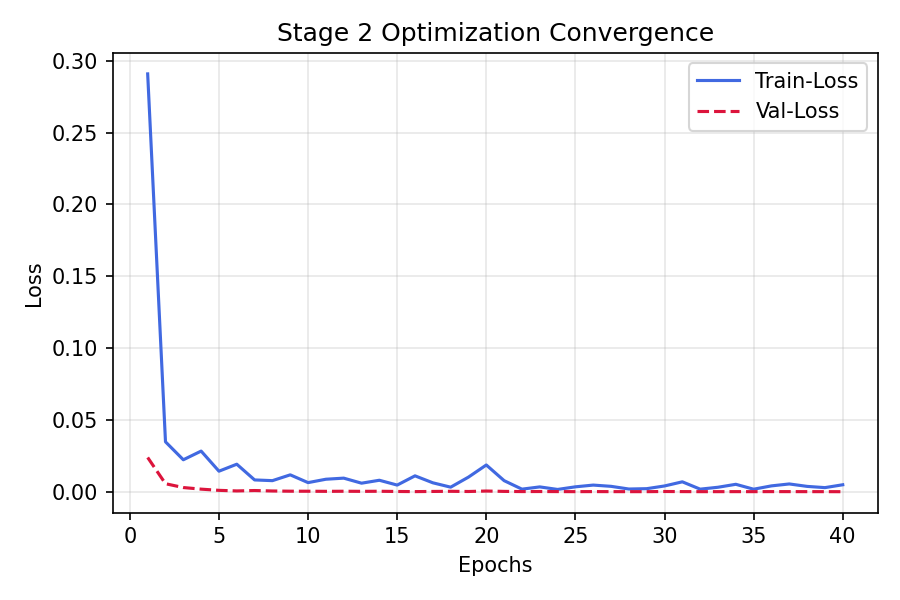
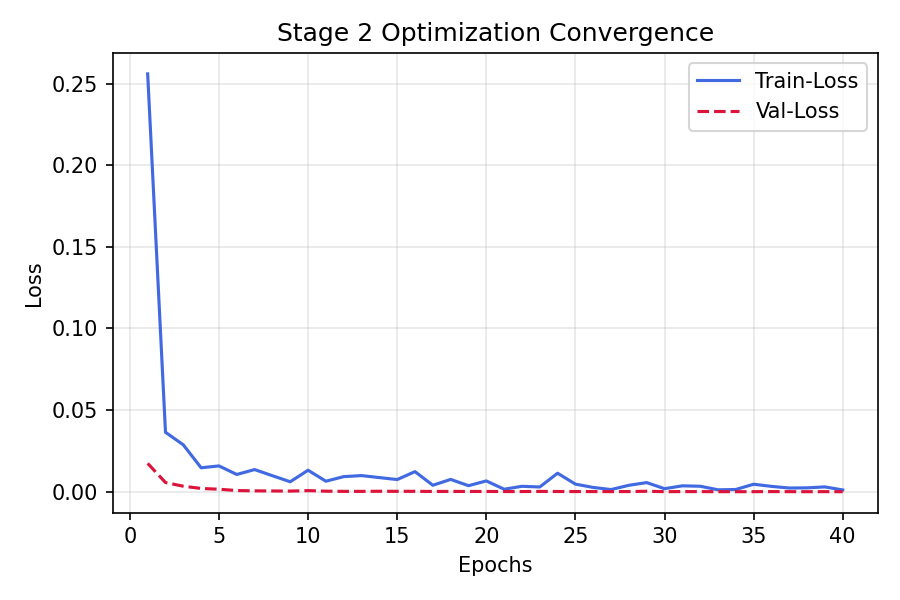
model 1 and 2 revised and trained

diff --git a/train_stage1.py b/train_stage1.py
@@ -9,6 +9,7 @@ from sklearn.model_selection import train_test_split
 from sklearn.metrics import classification_report, confusion_matrix
 from data.data_loader import Stage1_Dataset
 from model.stage1_screening import Stage1_Encoder, evaluate
+import matplotlib.pyplot as plt
 
 def main():
 
@@ -19,6 +20,7 @@ def main():
     train_df, test_df = train_test_split(df, test_size=0.15, random_state=42, stratify=df['diagnostic_class'])
 
     train_dataset = Stage1_Dataset(train_df)
+    train_dataset.save_scaler_meta()
     test_dataset = Stage1_Dataset(test_df, scaler_meta=train_dataset.get_scaler_meta())
 
     train_loader = DataLoader(train_dataset, batch_size=32, shuffle=True)
@@ -28,6 +30,7 @@ def main():
     criterion = nn.CrossEntropyLoss()
     optimizer = optim.Adam(model.parameters(), lr=0.002, weight_decay=1e-4)
 
+    metrics_history = {"train_loss" : [], "val_loss" : []}
     best_val_loss = float("inf")
     epochs = 40
 
@@ -53,9 +56,12 @@ def main():
 
         val_acc = np.mean(val_preds == val_labels)
 
+        metrics_history["train_loss"].append(epoch_train_loss)
+        metrics_history["val_loss"].append(epoch_val_loss)
+
         if epoch_val_loss < best_val_loss:
             best_val_loss = epoch_val_loss
-            torch.save(model.state_dict(), "best_stage1_encoder.pt")
+            torch.save(model.state_dict(), "model/stage1_model.pth")
             save_msg = "--> Checkpoint Saved"
         else:
             save_msg = ""
@@ -64,8 +70,23 @@ def main():
             print(f"Epoch [{epoch+1:02d}/{epochs}] | Train Loss: {epoch_train_loss:.4f} | {epoch_val_loss:.4f} | {val_acc*100:.1f}% {save_msg}")
         
     print("\nTraining complete. Running final evaluation metrics using optimal checkpoint...")
-    model.load_state_dict(torch.load("best_stage1_encoder.pt"))
+    model.load_state_dict(torch.load("model/stage1_model.pth"))
     _, final_labels, final_preds = evaluate(model, test_loader, criterion, device)
+
+
+    # Plotting execution metrics
+    plt.figure(figsize=(6,4))
+    plt.plot(range(1, epochs+1), metrics_history["train_loss"], label="Train-Loss", color="royalblue")
+    plt.plot(range(1, epochs+1), metrics_history["val_loss"], label="Val-Loss", color="crimson", linestyle="--")
+    plt.title('Stage 1 Optimization Convergence')
+    plt.xlabel('Epochs')
+    plt.ylabel('Loss')
+    plt.legend()
+    plt.grid(True, alpha=0.3)
+    plt.tight_layout()
+    plt.savefig("model/stage1_training_plots.png", dpi=150)
+    print("[+] Saved execution dynamics graphics to models/stage1_training_plots.png")
+
 
     print("\n" + "="*50)
     print("STAGE 1 CLINICAL EVALUATION METRICS REPORT")

diff --git a/data/data_loader.py b/data/data_loader.py
@@ -28,6 +28,23 @@ class Stage1_Dataset(Dataset):
 
     def get_scaler_meta(self):
         return {"means" : self.means, "stds" : self.stds}
+    
+    
+    def save_scaler_meta(self, filepath="model/scaler_meta.npy"):
+        """Saves the calculated training means and stds to disk."""
+        folder = os.path.dirname(filepath)
+        if folder:
+            os.makedirs(folder, exist_ok=True)
+            
+        np.save(filepath, self.get_scaler_meta())
+        print(f"[+] Scaler parameters saved to disk: {filepath}")
+        
+
+    @staticmethod
+    def load_scaler_meta(filepath="model/scaler_meta.npy"):
+        """Utility function to load parameters back into memory from disk."""
+        return np.load(filepath, allow_pickle=True).item()
+    
 
     def __len__(self):
         return len(self.df)
